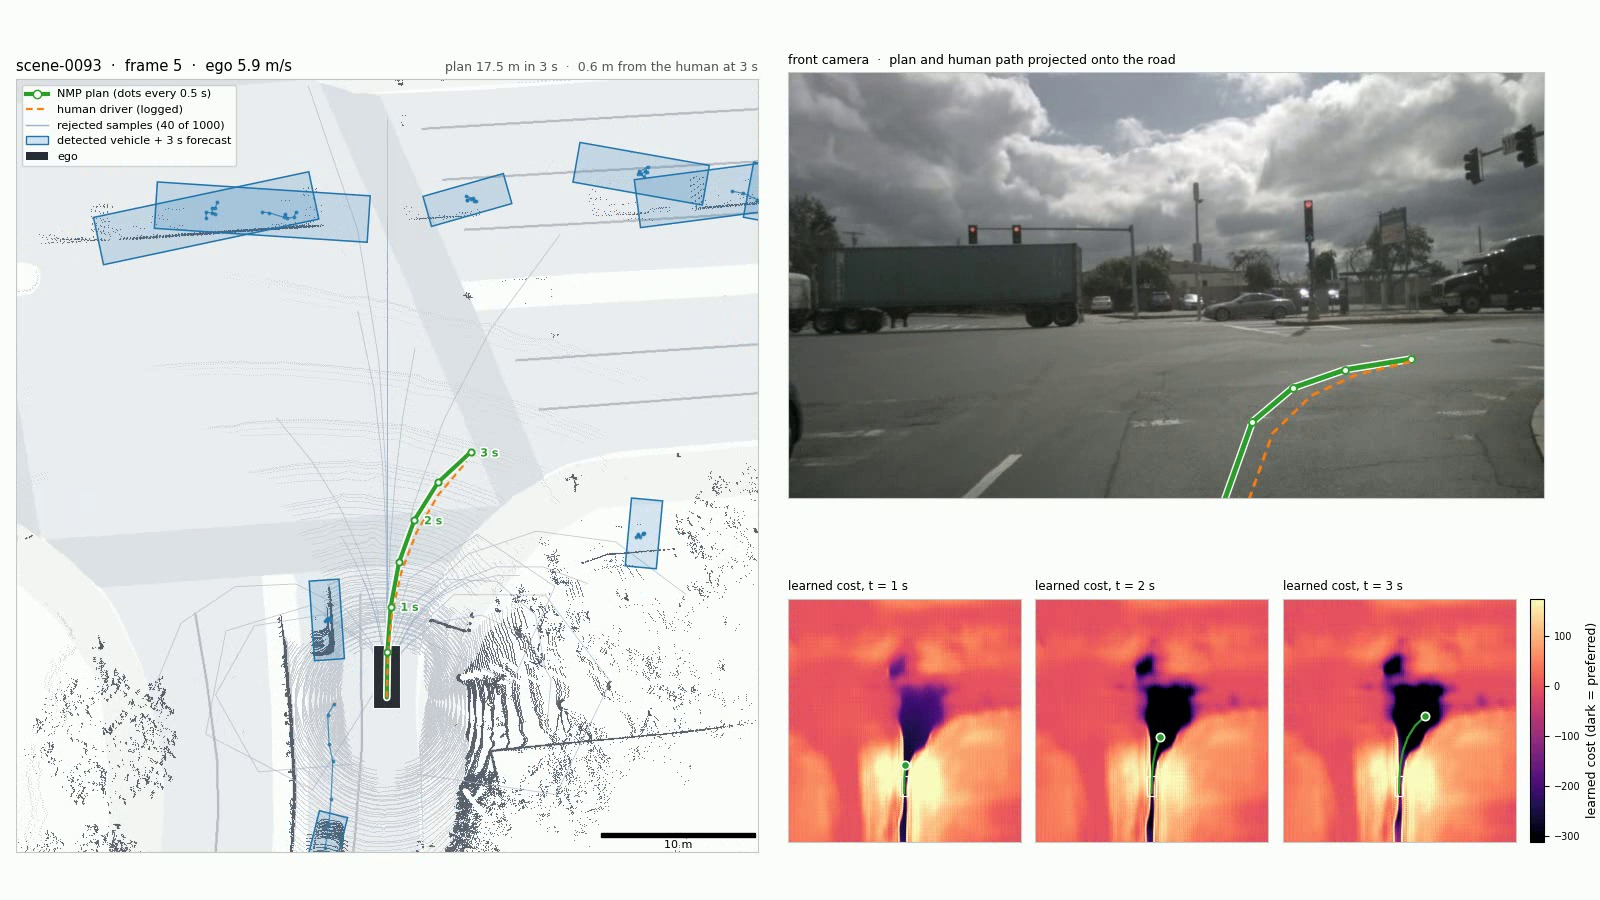
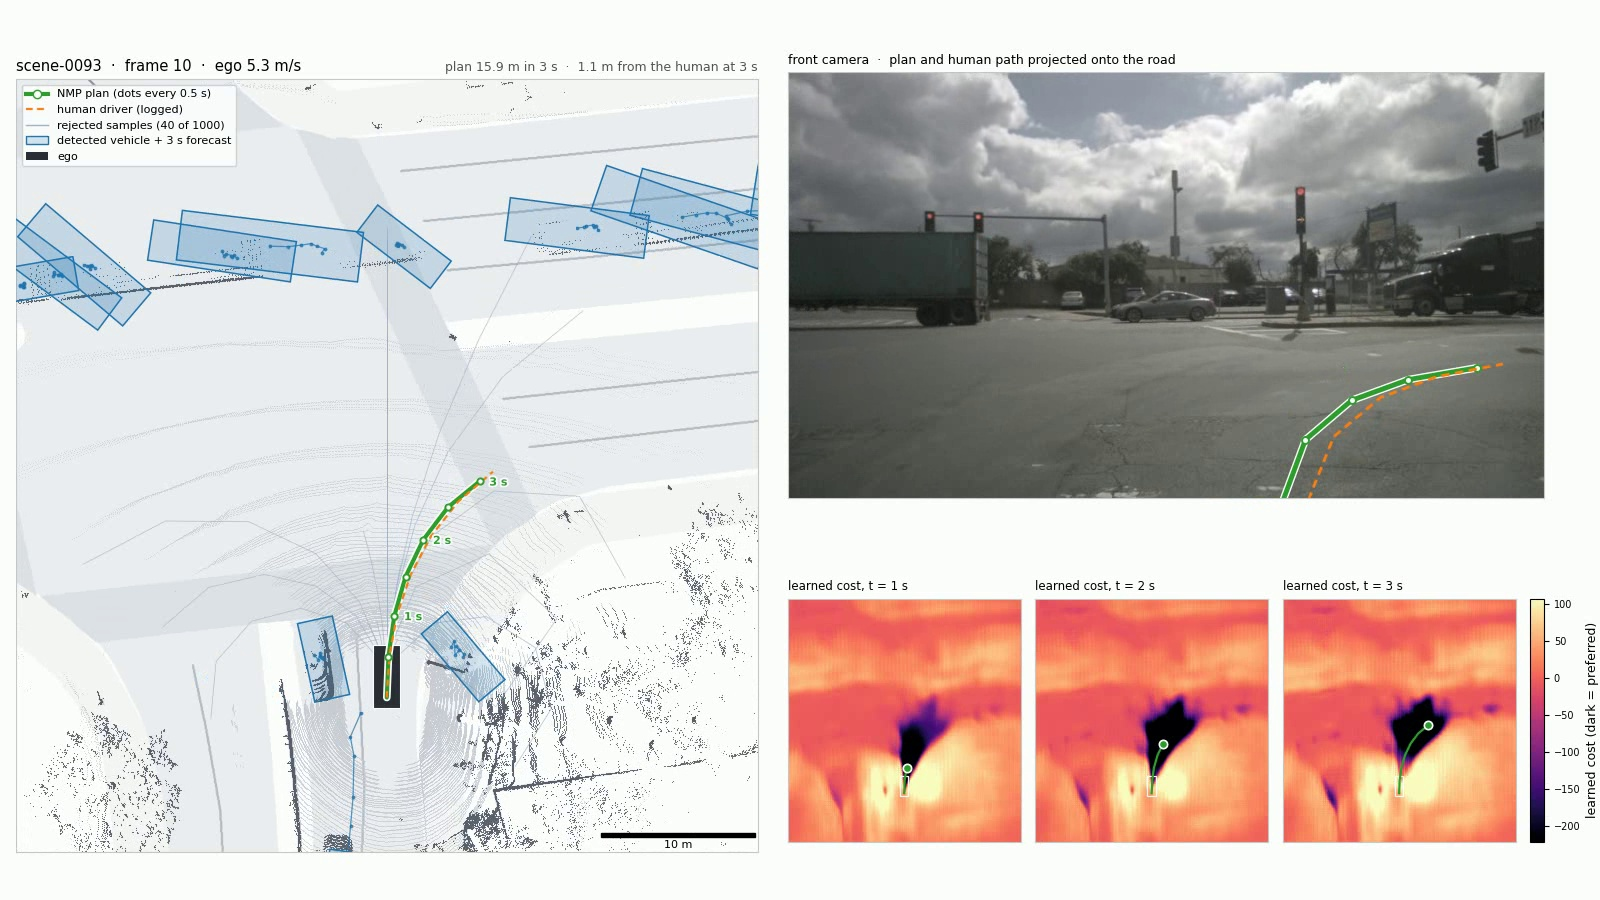
docs: report the retrained NMP as the only model
The model retrained with the whole-footprint collision margin and the
longer-span curvature replaces the earlier checkpoint. The README table and
the planner_bev figure now come from it; the figure moves to frame 10 of
the same right turn because the planner now waits for its full LiDAR
history.

Claude-Session: https://claude.ai/code/session_01536J9W9DQWEenrXTNpdM8D

diff --git a/README.md b/README.md
@@ -84,12 +84,11 @@ Trained 20 epochs on 139 nuScenes train scenes (4,396 samples), evaluated on the
 |---|---|---|---|
 | human driver (logged) | 0 / 0 / 0 | 0.00 / 0.00 / 0.00 | 0.00 |
 | constant velocity | 0.40 / 1.16 / 2.33 | 0.00 / 0.41 / 2.24 | 5.70 |
-| **NMP, last epoch** | 0.47 / 1.58 / 3.47 | 0.00 / 0.00 / 1.12 | 0.00 |
-| NMP, best epoch by val collision (17) | 0.46 / 1.56 / 3.42 | 0.00 / 0.00 / 0.81 | 0.00 |
-| NMP v2: whole-footprint collision margin, longer-span curvature (last epoch) | 0.49 / 1.65 / 3.60 | 0.00 / 0.10 / 1.02 | 0.00 |
+| **NMP, last epoch** | 0.49 / 1.65 / 3.60 | 0.00 / 0.10 / 1.02 | 0.00 |
+| NMP, best epoch by val collision (13) | 0.49 / 1.65 / 3.60 | 0.00 / 0.00 / 0.61 | 0.00 |
 | NMP reference ([Khurana et al., ECCV 2022](https://arxiv.org/abs/2210.01917), full val, no map) | 0.53 / 1.25 / 2.67 | 0.04 / 0.12 / 0.87 | - |
 
-The last epoch is the honest number; the best epoch was picked on the same val split, so its collision rate is optimistic. The planner stays on the road and out of other cars far better than driving straight (the human row shows the metrics don't penalise normal driving), and it travels 17.8 m in 3 s against the human's 19.2 m, so it is not avoiding collisions by stopping. It is further from the human trajectory than both constant velocity and the reference. The reference uses the same loss, so the loss alone doesn't explain that; less data (a fifth of nuScenes, 31 of 150 val scenes) and the differences between our setup and theirs are candidates, not a diagnosis. Vehicle AP at 2 m is 0.49, scored like the nuScenes detection eval: vehicles within 50 m that LiDAR actually hit and that lie inside the model's grid. Retraining with the collision margin checked over the whole ego footprint (v2) did not help: 3 s collisions moved by one case in 983 (1.12% to 1.02%, within noise) while L2 grew to 3.60 m, AP fell to 0.45 and plans got slightly shorter (17.5 m in 3 s), so v1 stays the reference model. Implementation in [fsd/nmp/](fsd/nmp/).
+The last epoch is the honest number; the best epoch was picked on the same val split, so its collision rate is optimistic. The planner stays on the road and out of other cars far better than driving straight (the human row shows the metrics don't penalise normal driving), and it travels 17.5 m in 3 s against the human's 19.2 m, so it is not avoiding collisions by stopping. It is further from the human trajectory than both constant velocity and the reference. The reference uses the same loss, so the loss alone doesn't explain that; less data (a fifth of nuScenes, 31 of 150 val scenes) and the differences between our setup and theirs are candidates, not a diagnosis. Vehicle AP at 2 m is 0.45, scored like the nuScenes detection eval: vehicles within 50 m that LiDAR actually hit and that lie inside the model's grid. Implementation in [fsd/nmp/](fsd/nmp/).
 
 ### Results
 
